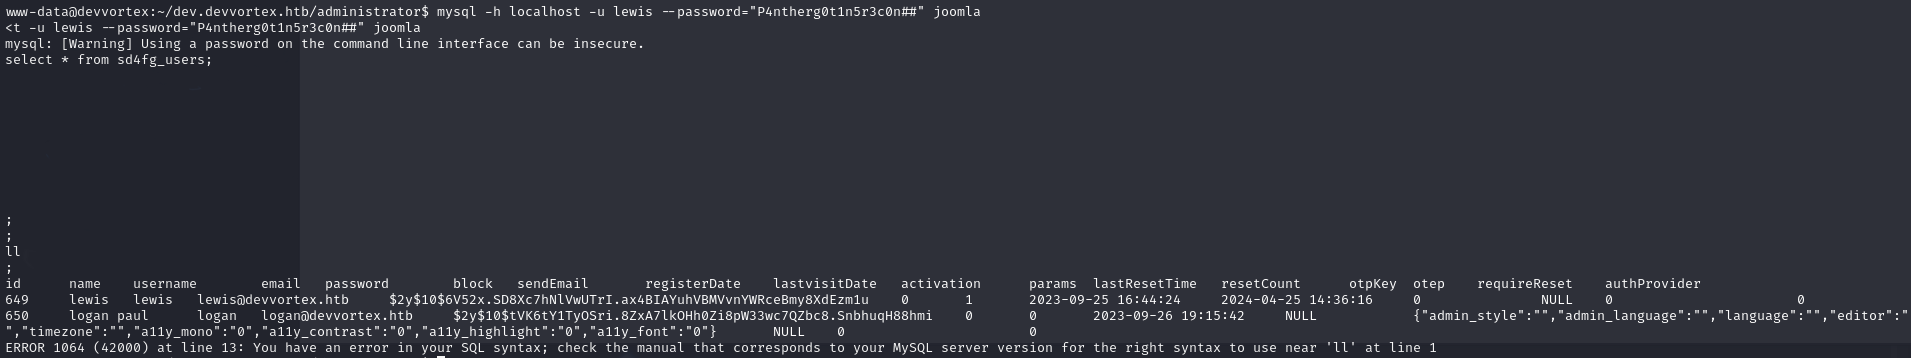
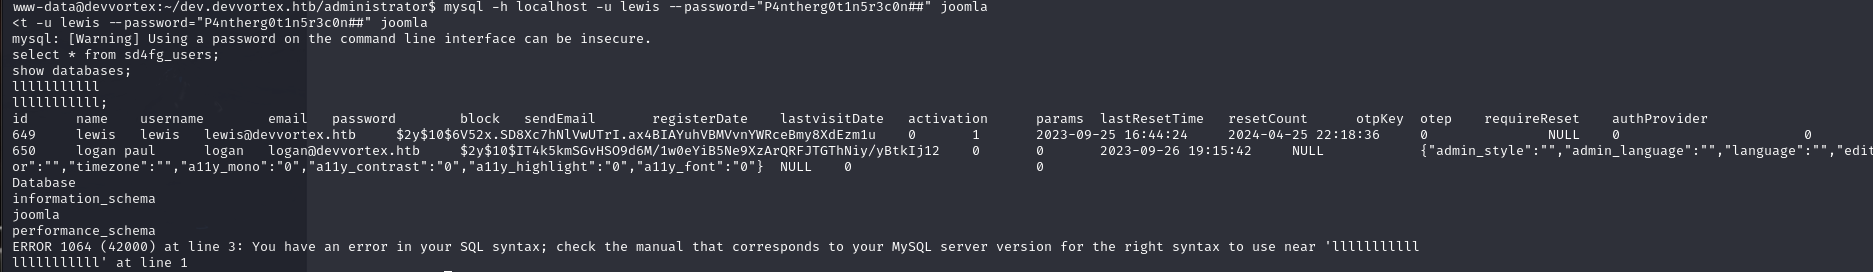
user flag

diff --git a/README.md b/README.md
@@ -43,3 +43,9 @@ For some reason mysql would not resond so I just kept hitting random keys until 
 ## Password Hash
 I looked up the hash online and found that it is a bcrypt, blowfish unix password. So, my first thought is to use hashcat to try and crack the hash as I used this program in cs 483.
 ![password hash](images/password-hash.png)
+After running the hash through hashcat using the `rockyou.txt` dictionary that comes with Kali I was able to crack the hash.
+![cracked hash](images/cracked-hash.png)
+
+## Privilege Escalation: Logan
+With the password I have recovered I am now able to switch to logans account using `su logan` in the reverse shell from earlier.
+![user flag](images/user-flag.png)
